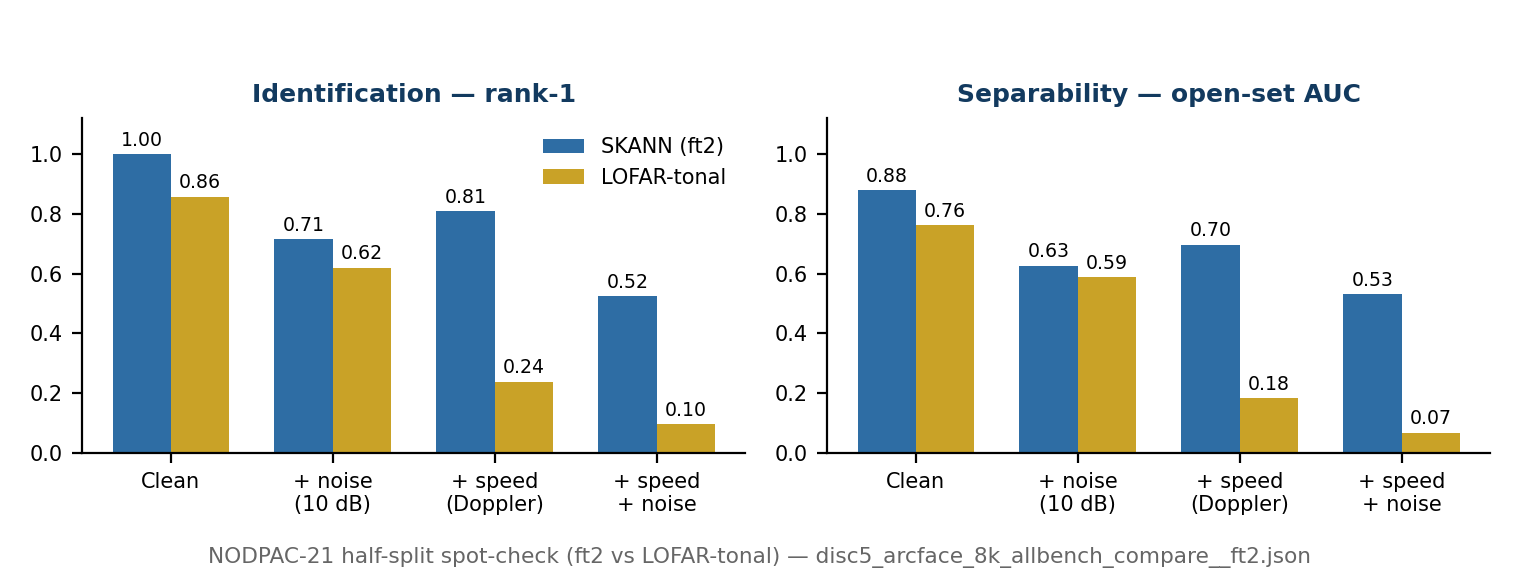
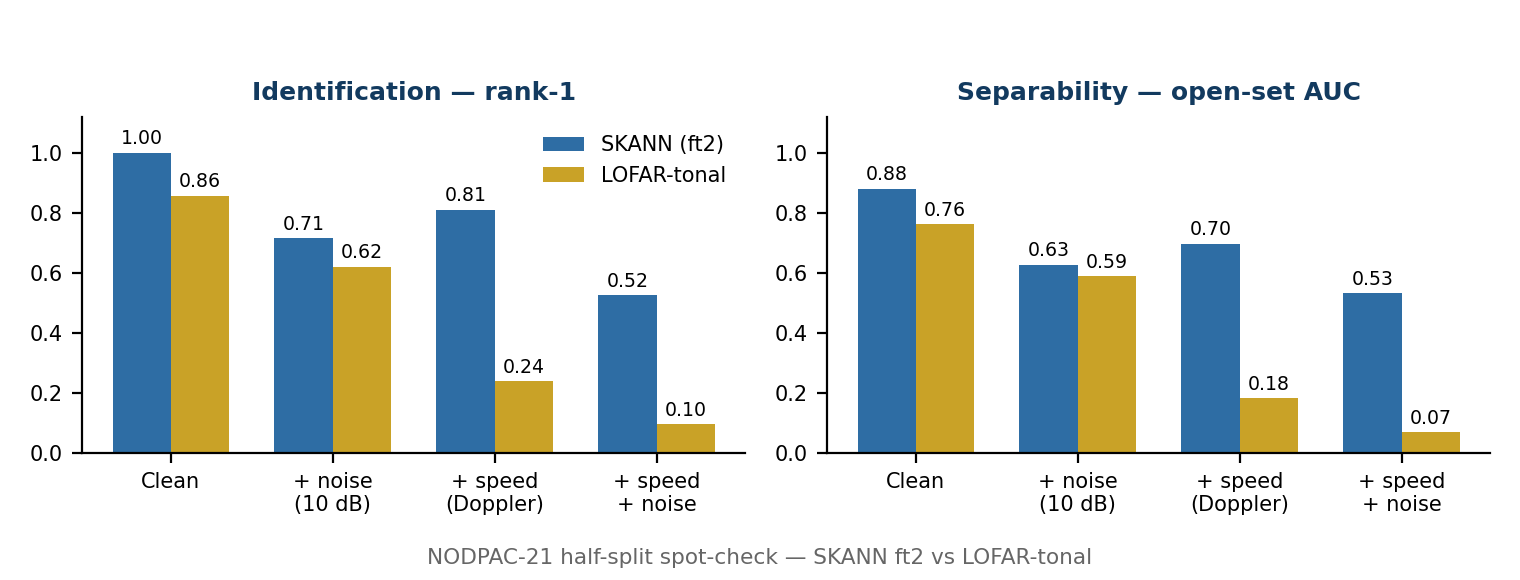
docs: reword benchmark source line, amend fig4 caption strip; docpdf builder moved to scripts/ with repo-relative paths

diff --git a/scripts/disc5_build_docpdf.py b/scripts/disc5_build_docpdf.py
@@ -1,8 +1,10 @@
 # disc5_build_docpdf.py
-# Renders the corrected DISC5_SKANN_Technical_Documentation.md into a typeset PDF
-# with three inserted figures (architecture, pipeline, NODPAC-21 benchmark chart).
+# Renders DISC5_SKANN_Technical_Documentation.md (repo root) into a typeset PDF
+# with the four inserted figures. Paths are repo-relative: run from anywhere,
+# reads ../DISC5_SKANN_Technical_Documentation.md and ../figures relative to this script.
 
 import re
+from pathlib import Path
 from reportlab.lib.pagesizes import A4
 from reportlab.lib.units import cm
 from reportlab.lib import colors
@@ -11,6 +13,11 @@ from reportlab.platypus import (BaseDocTemplate, Frame, PageTemplate, Paragraph,
                                 Spacer, Image, Table, TableStyle, HRFlowable)
 from reportlab.pdfbase import pdfmetrics
 from reportlab.pdfbase.ttfonts import TTFont
+
+REPO = Path(__file__).resolve().parents[1]
+MD_PATH = REPO / "DISC5_SKANN_Technical_Documentation.md"
+OUT_PATH = REPO / "DISC5_SKANN_Technical_Documentation.pdf"
+FIG_DIR = REPO / "figures"
 
 # ---- fonts (DejaVu for full glyph coverage: arrows, >=, approx, etc.) ----
 FD = "/usr/share/fonts/truetype/dejavu/"
@@ -71,15 +78,14 @@ def md_table(rows, width):
     return t
 
 FIG_WIDTH_CM = {"fig3_pipeline.png": 15.2}  # default 16.4 for the rest
-FIG_DIR = "/home/claude/figures/"
 
 def build(md_path, out_path, width):
     story = []
     story.append(Spacer(1, 0.6 * cm))
-    story.append(Paragraph("DISC5 / SKANN — Technical Documentation", S["title"]))
+    story.append(Paragraph("DISC5 / SKANN \u2014 Technical Documentation", S["title"]))
     story.append(Paragraph("Passive-sonar vessel re-identification: data, preprocessing, augmentation, "
                            "architecture, training, and evaluation", S["subtitle"]))
-    story.append(Paragraph("Delivered checkpoint: <b>ft2</b> (disc5_arcface_8k_ft2_ep003.pth) · July 2026", S["subtitle"]))
+    story.append(Paragraph("Delivered checkpoint: <b>ft2</b> (disc5_arcface_8k_ft2_ep003.pth) \u00b7 July 2026", S["subtitle"]))
     story.append(Spacer(1, 0.15 * cm))
     story.append(HRFlowable(width="100%", thickness=1.1, color=NAVY, spaceAfter=8))
 
@@ -92,7 +98,7 @@ def build(md_path, out_path, width):
             cap, path = mimg.group(1), mimg.group(2)
             fn = path.split("/")[-1]
             w_cm = FIG_WIDTH_CM.get(fn, 16.4)
-            img = Image(FIG_DIR + fn)
+            img = Image(str(FIG_DIR / fn))
             scale = (w_cm * cm) / img.imageWidth
             img.drawWidth = w_cm * cm
             img.drawHeight = img.imageHeight * scale
@@ -126,21 +132,21 @@ def build(md_path, out_path, width):
             story.append(Spacer(1, 2)); story.append(md_table(rows, width)); story.append(Spacer(1, 6))
             continue
         m = re.match(r"^(\d+)\.\s+(.*)$", ln)
-        if m or ln.startswith("- ") or ln.startswith("• "):
+        if m or ln.startswith("- ") or ln.startswith("\u2022 "):
             if m:
                 bullet, text = m.group(1) + ".", m.group(2)
             else:
-                bullet, text = "•", ln[2:]
+                bullet, text = "\u2022", ln[2:]
             # absorb continuation lines (indented or plain wrap until blank/next structure)
             j = i + 1
-            while j < n and lines[j].strip() and not re.match(r"^(\d+\.\s|- |• |#|\||---$|> |!\[)", lines[j].strip()):
+            while j < n and lines[j].strip() and not re.match(r"^(\d+\.\s|- |\u2022 |#|\||---$|> |!\[)", lines[j].strip()):
                 text += " " + lines[j].strip(); j += 1
             story.append(Paragraph(inline(text), S["bullet"], bulletText=bullet))
             i = j; continue
         # normal paragraph, absorb wraps
         text = ln
         j = i + 1
-        while j < n and lines[j].strip() and not re.match(r"^(\d+\.\s|- |• |#|\||---$|> |!\[)", lines[j].strip()):
+        while j < n and lines[j].strip() and not re.match(r"^(\d+\.\s|- |\u2022 |#|\||---$|> |!\[)", lines[j].strip()):
             text += " " + lines[j].strip(); j += 1
         story.append(Paragraph(inline(text), S["body"]))
         i = j
@@ -148,13 +154,13 @@ def build(md_path, out_path, width):
     def footer(canv, doc_):
         canv.saveState()
         canv.setFont("DV", 7.5); canv.setFillColor(GREY)
-        canv.drawString(2 * cm, 1.05 * cm, "DISC5 / SKANN — Technical Documentation (ft2)")
+        canv.drawString(2 * cm, 1.05 * cm, "DISC5 / SKANN \u2014 Technical Documentation (ft2)")
         canv.drawRightString(A4[0] - 2 * cm, 1.05 * cm, f"Page {canv.getPageNumber()}")
         canv.setStrokeColor(colors.HexColor("#c7d2dd")); canv.setLineWidth(0.5)
         canv.line(2 * cm, 1.35 * cm, A4[0] - 2 * cm, 1.35 * cm)
         canv.restoreState()
 
-    doc = BaseDocTemplate(out_path, pagesize=A4,
+    doc = BaseDocTemplate(str(out_path), pagesize=A4,
                           leftMargin=2 * cm, rightMargin=2 * cm, topMargin=1.7 * cm, bottomMargin=1.8 * cm)
     fr = Frame(doc.leftMargin, doc.bottomMargin, doc.width, doc.height, id="f")
     doc.addPageTemplates([PageTemplate(id="p", frames=[fr], onPage=footer)])
@@ -162,5 +168,5 @@ def build(md_path, out_path, width):
 
 if __name__ == "__main__":
     W = A4[0] - 4 * cm
-    build("/home/claude/tdoc_canonical.md", "/home/claude/DISC5_SKANN_Technical_Documentation.pdf", W)
-    print("pdf written")
+    build(MD_PATH, OUT_PATH, W)
+    print("pdf written:", OUT_PATH)

diff --git a/DISC5_SKANN_Technical_Documentation.md b/DISC5_SKANN_Technical_Documentation.md
@@ -159,7 +159,7 @@ The broader ONC dose in ft2 did **not** materially lift *unseen cross-encounter*
 
 ## 7. Evaluation
 
-Two evaluations matter: the **target-hardware spot-check** (NODPAC-21) and the **honest cross-passage number** (IARA). Figures below are from the ft2 all-benchmark comparison (`disc5_arcface_8k_allbench_compare__ft2.json`); metrics are rank-1 (correct hull is the single top match), AUC (probability a same-vessel pair out-scores the nearest different vessel), and median rank of the genuine match.
+Two evaluations matter: the **target-hardware spot-check** (NODPAC-21) and the **honest cross-passage number** (IARA). Figures below are from the ft2 all-benchmark evaluation; metrics are rank-1 (correct hull is the single top match), AUC (probability a same-vessel pair out-scores the nearest different vessel), and median rank of the genuine match.
 
 ### 7.1 NODPAC-21 (target hardware, half-split protocol)
 The clip is split in half — gallery = first half, query = second half — and scored under four increasingly realistic conditions. **This is a smoke test, not a true cross-passage result**, because the two halves share the same channel and speed; it is reported here as a hardware sanity check, with the honest cross-passage number given in §7.2.
@@ -173,7 +173,7 @@ The clip is split in half — gallery = first half, query = second half — and 
 
 The pattern is the story: on clean audio SKANN matches or beats the tonal method; the gap **widens under noise**; and under Doppler the tonal method **collapses** (its absolute line frequencies shift, so line-matching fails) while SKANN's learned invariance largely holds. The two methods have **near-orthogonal failure modes** — where one fails the other often does not — which is why they are shown side by side. A z-score fusion helps on clean/noise but *hurts* under speed, so **fusion is not shipped**; agreement is surfaced instead.
 
-![Figure 4 — NODPAC-21 half-split spot-check, four conditions: rank-1 and open-set AUC, SKANN ft2 vs LOFAR-tonal. Source: disc5_arcface_8k_allbench_compare__ft2.json.](figures/fig4_nodpac21.png)
+![Figure 4 — NODPAC-21 half-split spot-check, four conditions: rank-1 and open-set AUC, SKANN ft2 vs LOFAR-tonal.](figures/fig4_nodpac21.png)
 
 ### 7.2 IARA validation (real cross-passage, the honest number)
 On real cross-passage queries over held-out IARA hulls (115 queries), the correct vessel is the single top match **less than half the time**, but is usually within the top few:
